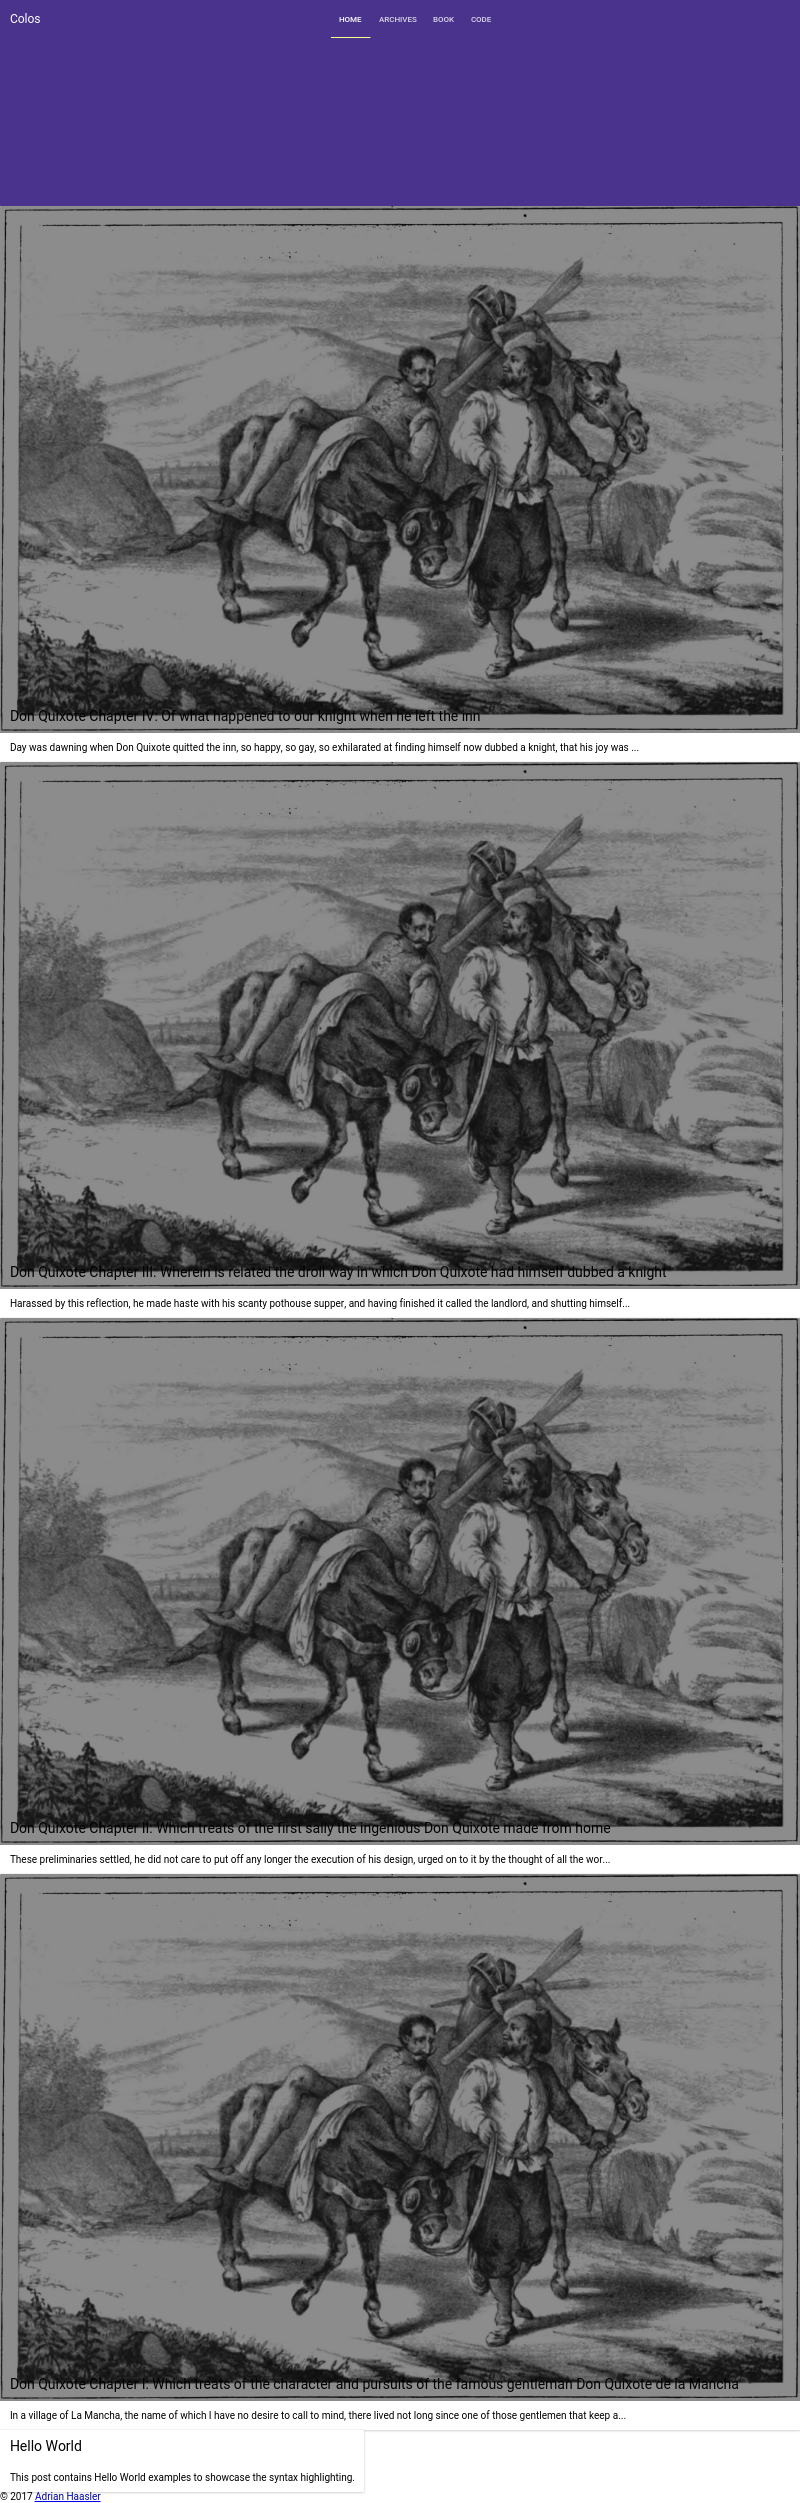
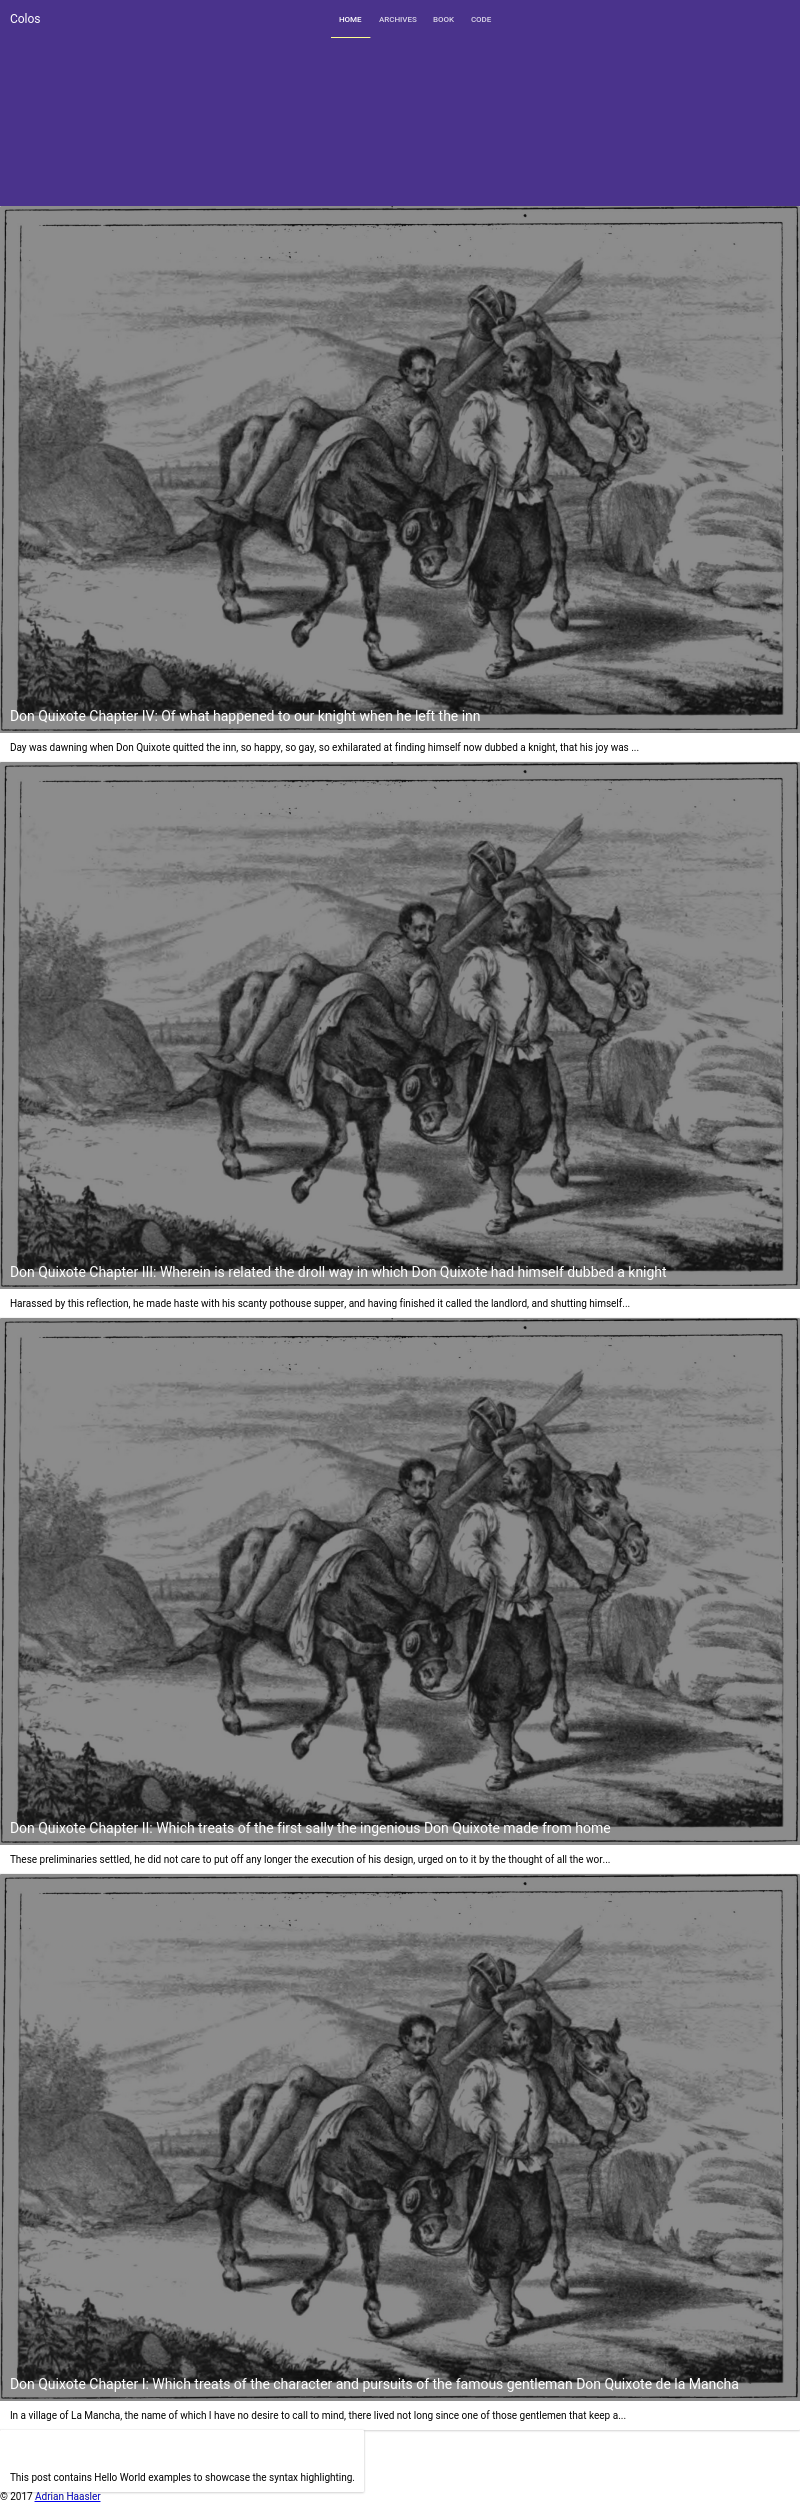
Change paper-card header text color to white
Built from d4f3547a1fbd5db5b4290584e54ab930784d779f.

diff --git a/source/css/main.css b/source/css/main.css
@@ -3,4 +3,4 @@ http://meyerweb.com/eric/tools/css/reset/
 v2.0 | 20110126
 License: none (public domain)
 */a,abbr,acronym,address,applet,article,aside,audio,b,big,blockquote,body,canvas,caption,center,cite,code,dd,del,details,dfn,div,dl,dt,em,embed,fieldset,figcaption,figure,footer,form,h1,h2,h3,h4,h5,h6,header,hgroup,html,i,iframe,img,ins,kbd,label,legend,li,mark,menu,nav,object,ol,output,p,pre,q,ruby,s,samp,section,small,span,strike,strong,sub,summary,sup,table,tbody,td,tfoot,th,thead,time,tr,tt,u,ul,var,video{margin:0;padding:0;border:0;font-size:100%;font:inherit;vertical-align:baseline}
-/* HTML5 display-role reset for older browsers */article,aside,details,figcaption,figure,footer,header,hgroup,menu,nav,section{display:block}body{line-height:1}ol,ul{list-style:none}blockquote,q{quotes:none}blockquote:after,blockquote:before,q:after,q:before{content:"";content:none}table{border-collapse:collapse;border-spacing:0}h1,h2,h3,h4,h5,h6{color:rgba(0,0,0,.9)}body{font-family:Roboto,sans-serif}.post-content{color:#212121;line-height:1.6;font-size:1.25em;font-weight:300}.post-content p{margin-bottom:1em}h1{font-size:2.2em}h2{font-size:2em}h3{font-size:1.8em}h4{font-size:1.6em}h5{font-size:1.4em}h6{font-size:1.2em}.archives-wrap .archive-year{text-decoration:none;color:#212121}.archives-wrap .archive-year:active,.archives-wrap .archive-year:focus,.archives-wrap .archive-year:hover{color:#757575}.highlight,pre{font-family:Roboto Mono,monospace;font-size:.83em;line-height:1.2em}.highlight .line,pre .line{height:1.2em}app-drawer-layout>#contentContainer:not(.narrow){margin-left:0!important}app-drawer-layout>#contentContainer:not(.narrow)+app-drawer{visibility:hidden!important}app-drawer-layout>.narrow paper-tabs{display:none!important}app-header{color:#fff;background-color:#7c4dff}app-header #backgroundFrontLayer{background-position:50%}app-header #backgroundFrontLayer:before{content:"";display:block;position:absolute;top:0;bottom:0;left:0;right:0;background:rgba(25,25,25,.5)}app-toolbar.middle{height:10em}app-toolbar.bottom{height:4em}app-toolbar a{color:#fff;text-decoration:none}app-toolbar [main-title]{position:absolute;margin-left:2em;font-size:1.6em;font-weight:300}app-toolbar [condensed-title]{max-width:0}app-toolbar paper-tabs{height:100%!important}app-toolbar paper-tabs paper-tab{text-transform:uppercase}app-toolbar paper-tabs paper-tab[link] a{padding:0 1em}.page-content .wrapper .narrow-element,.page-content .wrapper h1,.page-content .wrapper h2,.page-content .wrapper h3,.page-content .wrapper h4,.page-content .wrapper h5,.page-content .wrapper h6,.page-content .wrapper header,.page-content .wrapper p,.page-content .wrapper table{max-width:960px;width:100%;margin:0 auto}.highlight{padding:.4em 0}.highlight .gutter{width:1.3em;text-align:right}.highlight .code{padding-left:1.4em}.archives-wrap:nth-child(3n+0){background-color:#ede7f6}.archives-wrap:nth-child(3n+2){background-color:#d1c4e9}.archives-wrap h1{text-align:center}paper-card iron-image:before{content:"";display:block;position:absolute;top:0;bottom:0;left:0;right:0;background:rgba(25,25,25,.5)}.highlight{background:#fafafa;border:solid #e0e0e0;border-width:1px 0}.highlight,pre{color:#212121}.highlight .string,pre .string{color:#f9a825}.highlight .comment,pre .comment{color:#727272}.highlight .keyword,pre .keyword{color:#ad1457}.highlight .built_in,pre .built_in{color:#00838f}.highlight .number,.literal,pre .number{color:#4527a0}.highlight.bash .meta,.highlight.bash .shebang,pre.bash .meta,pre.bash .shebang{color:#727272}.highlight.bash .variable,pre.bash .variable{color:#b6b6b6}.highlight.bash .title,pre.bash .title{color:#558b2f}.gutter pre{color:#757575}
+/* HTML5 display-role reset for older browsers */article,aside,details,figcaption,figure,footer,header,hgroup,menu,nav,section{display:block}body{line-height:1}ol,ul{list-style:none}blockquote,q{quotes:none}blockquote:after,blockquote:before,q:after,q:before{content:"";content:none}table{border-collapse:collapse;border-spacing:0}h1,h2,h3,h4,h5,h6{color:rgba(0,0,0,.9)}body{font-family:Roboto,sans-serif}.post-content{color:#212121;line-height:1.6;font-size:1.25em;font-weight:300}.post-content p{margin-bottom:1em}h1{font-size:2.2em}h2{font-size:2em}h3{font-size:1.8em}h4{font-size:1.6em}h5{font-size:1.4em}h6{font-size:1.2em}.archives-wrap .archive-year{text-decoration:none;color:#212121}.archives-wrap .archive-year:active,.archives-wrap .archive-year:focus,.archives-wrap .archive-year:hover{color:#757575}paper-card .header .title-text{color:#fff!important}.highlight,pre{font-family:Roboto Mono,monospace;font-size:.83em;line-height:1.2em}.highlight .line,pre .line{height:1.2em}app-drawer-layout>#contentContainer:not(.narrow){margin-left:0!important}app-drawer-layout>#contentContainer:not(.narrow)+app-drawer{visibility:hidden!important}app-drawer-layout>.narrow paper-tabs{display:none!important}app-header{color:#fff;background-color:#7c4dff}app-header #backgroundFrontLayer{background-position:50%}app-header #backgroundFrontLayer:before{content:"";display:block;position:absolute;top:0;bottom:0;left:0;right:0;background:rgba(25,25,25,.5)}app-toolbar.middle{height:10em}app-toolbar.bottom{height:4em}app-toolbar a{color:#fff;text-decoration:none}app-toolbar [main-title]{position:absolute;margin-left:2em;font-size:1.6em;font-weight:300}app-toolbar [condensed-title]{max-width:0}app-toolbar paper-tabs{height:100%!important}app-toolbar paper-tabs paper-tab{text-transform:uppercase}app-toolbar paper-tabs paper-tab[link] a{padding:0 1em}.page-content .wrapper .narrow-element,.page-content .wrapper h1,.page-content .wrapper h2,.page-content .wrapper h3,.page-content .wrapper h4,.page-content .wrapper h5,.page-content .wrapper h6,.page-content .wrapper header,.page-content .wrapper p,.page-content .wrapper table{max-width:960px;width:100%;margin:0 auto}.highlight{padding:.4em 0}.highlight .gutter{width:1.3em;text-align:right}.highlight .code{padding-left:1.4em}.archives-wrap:nth-child(3n+0){background-color:#ede7f6}.archives-wrap:nth-child(3n+2){background-color:#d1c4e9}.archives-wrap h1{text-align:center}paper-card iron-image:before{content:"";display:block;position:absolute;top:0;bottom:0;left:0;right:0;background:rgba(25,25,25,.5)}.highlight{background:#fafafa;border:solid #e0e0e0;border-width:1px 0}.highlight,pre{color:#212121}.highlight .string,pre .string{color:#f9a825}.highlight .comment,pre .comment{color:#727272}.highlight .keyword,pre .keyword{color:#ad1457}.highlight .built_in,pre .built_in{color:#00838f}.highlight .number,.literal,pre .number{color:#4527a0}.highlight.bash .meta,.highlight.bash .shebang,pre.bash .meta,pre.bash .shebang{color:#727272}.highlight.bash .variable,pre.bash .variable{color:#b6b6b6}.highlight.bash .title,pre.bash .title{color:#558b2f}.gutter pre{color:#757575}
